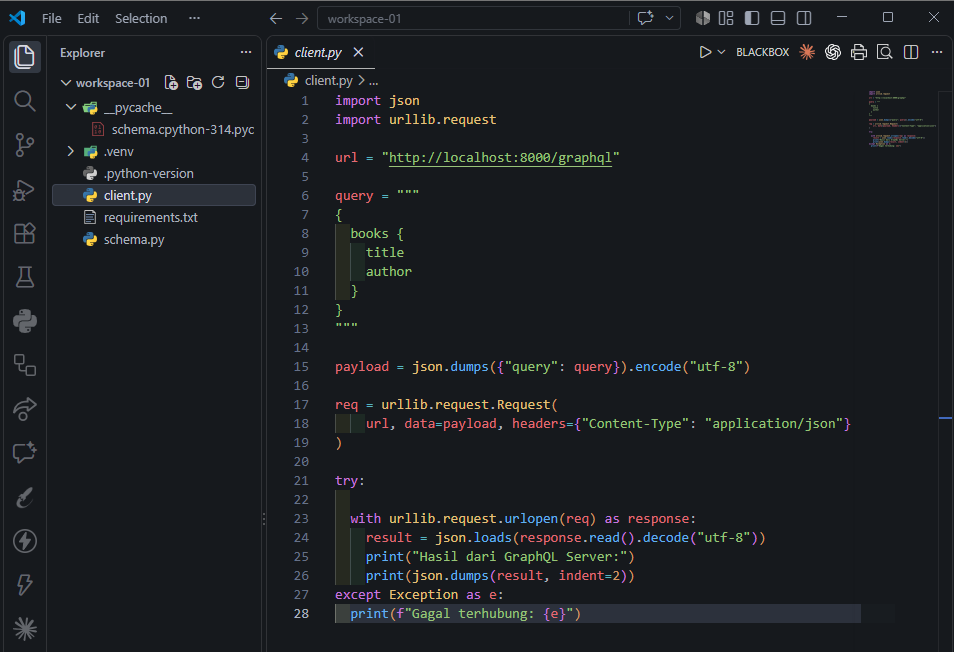
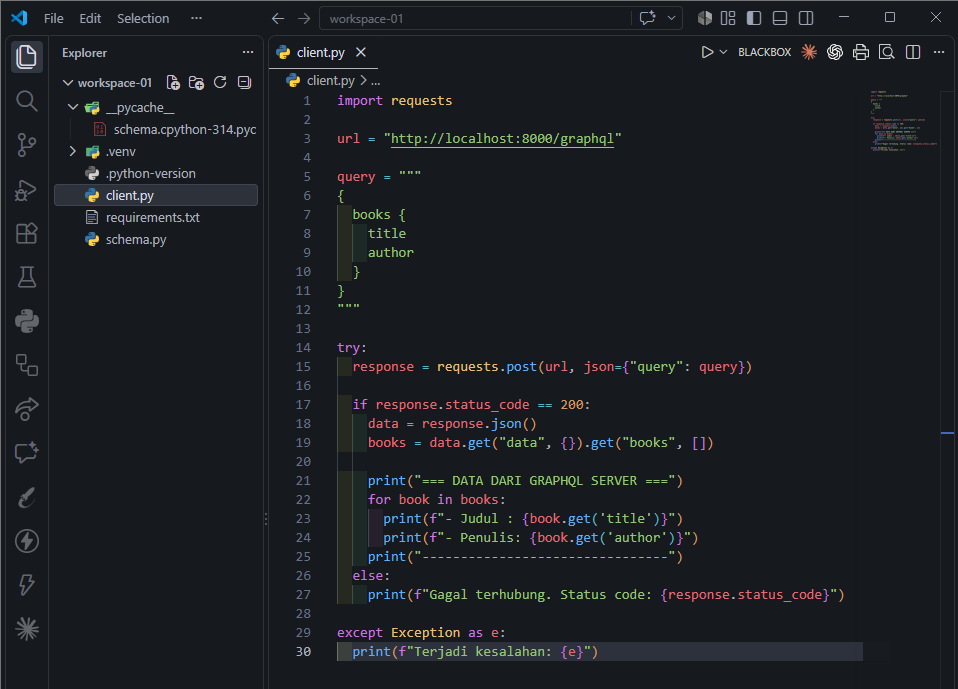
Update image and code

diff --git a/02/README.md b/02/README.md
@@ -539,8 +539,7 @@ Untuk mematikan server dapat dilakukan dengan cara menekan <CTRL+C> pada shell u
 2. Isi file dengan kode berikut
 
 ```
-import json
-import urllib.request
+import requests
 
 url = "http://localhost:8000/graphql"
 
@@ -553,20 +552,23 @@ query = """
 }
 """
 
-payload = json.dumps({"query": query}).encode("utf-8")
-
-req = urllib.request.Request(
-    url, data=payload, headers={"Content-Type": "application/json"}
-)
-
 try:
+  response = requests.post(url, json={"query": query})
 
-  with urllib.request.urlopen(req) as response:
-    result = json.loads(response.read().decode("utf-8"))
-    print("Hasil dari GraphQL Server:")
-    print(json.dumps(result, indent=2))
+  if response.status_code == 200:
+    data = response.json()
+    books = data.get("data", {}).get("books", [])
+
+    print("=== DATA DARI GRAPHQL SERVER ===")
+    for book in books:
+      print(f"- Judul : {book.get('title')}")
+      print(f"- Penulis: {book.get('author')}")
+    print("--------------------------------")
+  else:
+    print(f"Gagal terhubung. Status code: {response.status_code}")
+
 except Exception as e:
-  print(f"Gagal terhubung: {e}")
+  print(f"Terjadi kesalahan: {e}")
 ```
 
 <img src="images/32_Tugas_Isi_Kode_client.py.png" width="700">
